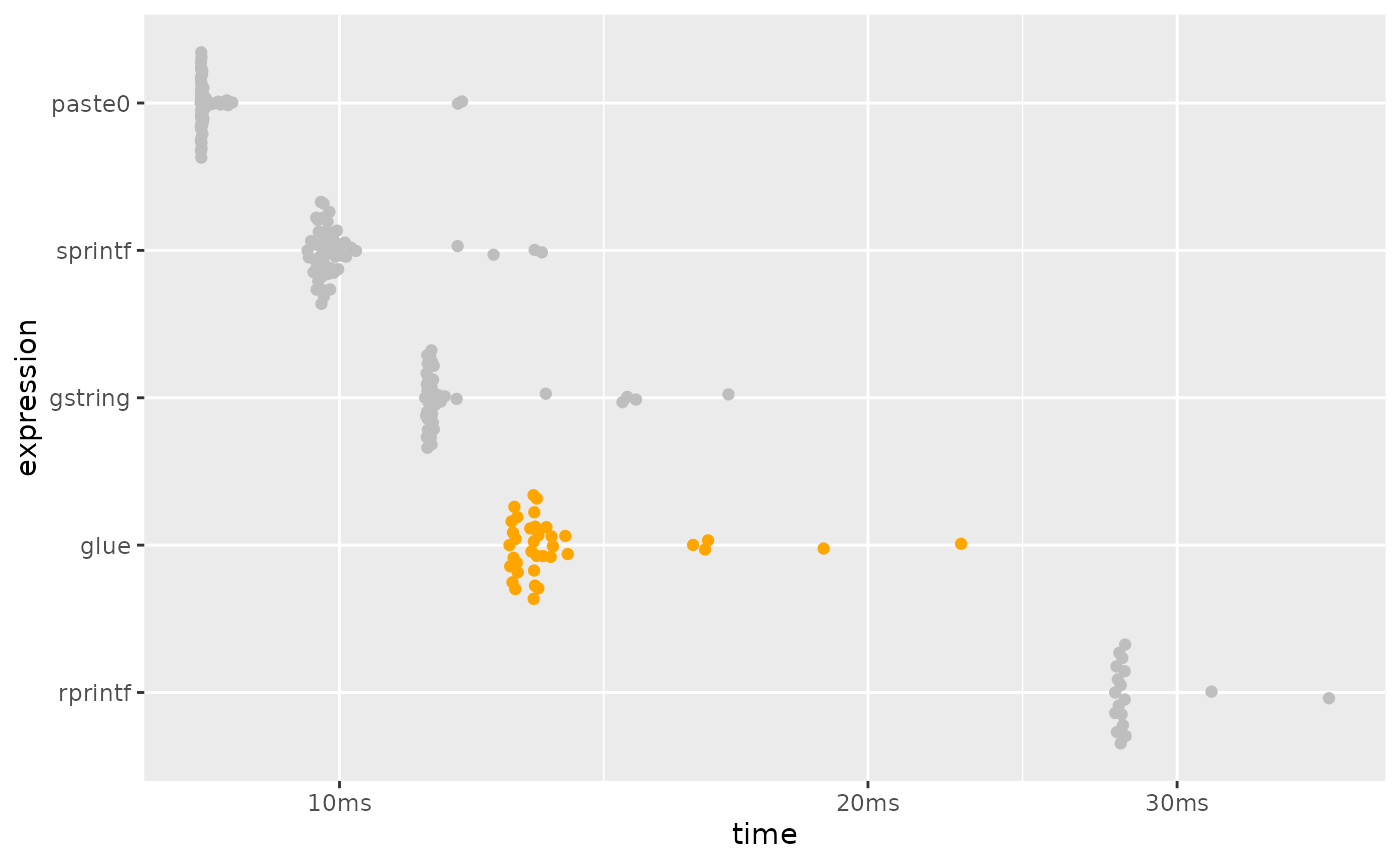
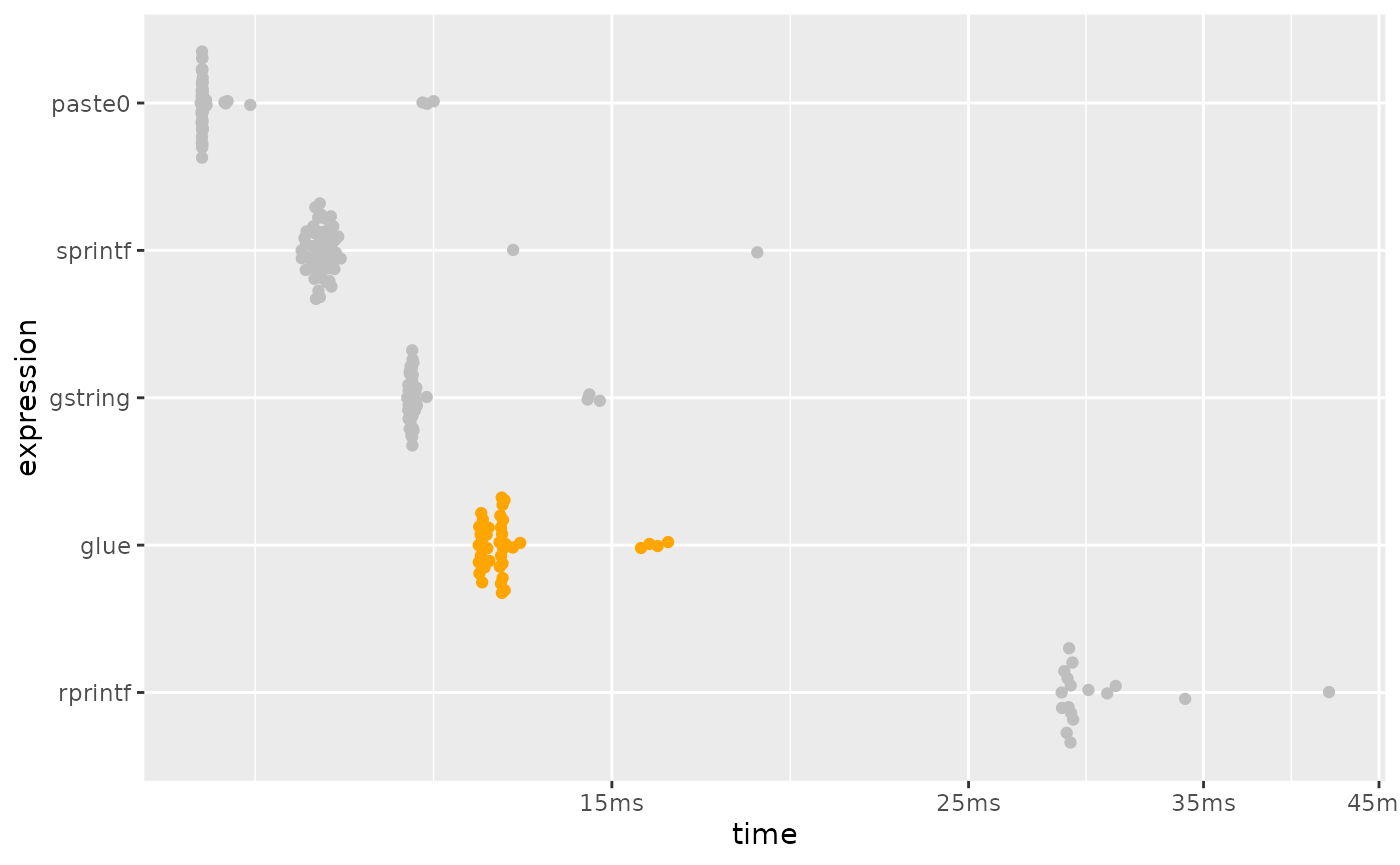
Deploying to gh-pages from @ tidyverse/glue@56913765a27b94175ad1ac0e8b9608e8c6272bc8 🚀

diff --git a/articles/speed.html b/articles/speed.html
@@ -165,11 +165,11 @@ this benchmark, but is now formally marked as “superseded”, in favor of
 <span><span class="co">#&gt; <span style="color: #949494;"># A tibble: 5 × 6</span></span></span>
 <span><span class="co">#&gt;   expression      min   median `itr/sec` mem_alloc `gc/sec`</span></span>
 <span><span class="co">#&gt;   <span style="color: #949494; font-style: italic;">&lt;bch:expr&gt;</span> <span style="color: #949494; font-style: italic;">&lt;bch:tm&gt;</span> <span style="color: #949494; font-style: italic;">&lt;bch:tm&gt;</span>     <span style="color: #949494; font-style: italic;">&lt;dbl&gt;</span> <span style="color: #949494; font-style: italic;">&lt;bch:byt&gt;</span>    <span style="color: #949494; font-style: italic;">&lt;dbl&gt;</span></span></span>
-<span><span class="co">#&gt; <span style="color: #BCBCBC;">1</span> sprintf    740.98ns 801.99ns  1<span style="text-decoration: underline;">169</span>363.        0B      0  </span></span>
-<span><span class="co">#&gt; <span style="color: #BCBCBC;">2</span> paste0       1.51µs   1.64µs   <span style="text-decoration: underline;">587</span>778.        0B      0  </span></span>
-<span><span class="co">#&gt; <span style="color: #BCBCBC;">3</span> glue        99.06µs  106.2µs     <span style="text-decoration: underline;">9</span>023.   139.5KB     29.9</span></span>
-<span><span class="co">#&gt; <span style="color: #BCBCBC;">4</span> gstring    220.92µs 232.03µs     <span style="text-decoration: underline;">4</span>215.    2.45MB     21.4</span></span>
-<span><span class="co">#&gt; <span style="color: #BCBCBC;">5</span> rprintf    276.88µs 286.02µs     <span style="text-decoration: underline;">3</span>349.   78.14KB     10.4</span></span>
+<span><span class="co">#&gt; <span style="color: #BCBCBC;">1</span> sprintf     750.9ns 861.01ns  1<span style="text-decoration: underline;">113</span>764.        0B      0  </span></span>
+<span><span class="co">#&gt; <span style="color: #BCBCBC;">2</span> paste0        1.5µs   1.63µs   <span style="text-decoration: underline;">581</span>551.        0B     58.2</span></span>
+<span><span class="co">#&gt; <span style="color: #BCBCBC;">3</span> glue         97.7µs 103.77µs     <span style="text-decoration: underline;">9</span>419.   139.5KB     32.0</span></span>
+<span><span class="co">#&gt; <span style="color: #BCBCBC;">4</span> gstring     227.1µs 237.15µs     <span style="text-decoration: underline;">4</span>122.    2.45MB     19.1</span></span>
+<span><span class="co">#&gt; <span style="color: #BCBCBC;">5</span> rprintf     278.4µs  285.8µs     <span style="text-decoration: underline;">3</span>442.   78.14KB     10.3</span></span>
 <span></span>
 <span><span class="co"># plotting function defined in a hidden chunk</span></span>
 <span><span class="fu">plot_comparison</span><span class="op">(</span><span class="va">simple</span><span class="op">)</span></span></code></pre></div>
@@ -212,11 +212,11 @@ performance is much closer to that of <code><a href="https://rdrr.io/r/base/past
 <span><span class="co">#&gt; <span style="color: #949494;"># A tibble: 5 × 6</span></span></span>
 <span><span class="co">#&gt;   expression      min   median `itr/sec` mem_alloc `gc/sec`</span></span>
 <span><span class="co">#&gt;   <span style="color: #949494; font-style: italic;">&lt;bch:expr&gt;</span> <span style="color: #949494; font-style: italic;">&lt;bch:tm&gt;</span> <span style="color: #949494; font-style: italic;">&lt;bch:tm&gt;</span>     <span style="color: #949494; font-style: italic;">&lt;dbl&gt;</span> <span style="color: #949494; font-style: italic;">&lt;bch:byt&gt;</span>    <span style="color: #949494; font-style: italic;">&lt;dbl&gt;</span></span></span>
-<span><span class="co">#&gt; <span style="color: #BCBCBC;">1</span> paste0       8.34ms   8.35ms     119.    781.3KB     4.18</span></span>
-<span><span class="co">#&gt; <span style="color: #BCBCBC;">2</span> sprintf      9.59ms    9.8ms     101.    781.3KB     4.20</span></span>
-<span><span class="co">#&gt; <span style="color: #BCBCBC;">3</span> gstring     11.19ms  11.27ms      87.2    1.53MB     6.54</span></span>
-<span><span class="co">#&gt; <span style="color: #BCBCBC;">4</span> glue         12.5ms   12.9ms      76.2    2.29MB     6.72</span></span>
-<span><span class="co">#&gt; <span style="color: #BCBCBC;">5</span> rprintf     27.66ms  27.86ms      35.9    3.05MB     4.49</span></span>
+<span><span class="co">#&gt; <span style="color: #BCBCBC;">1</span> paste0       8.32ms   8.34ms     119.    781.3KB     6.40</span></span>
+<span><span class="co">#&gt; <span style="color: #BCBCBC;">2</span> sprintf      9.62ms   9.88ms     101.    781.3KB     4.21</span></span>
+<span><span class="co">#&gt; <span style="color: #BCBCBC;">3</span> gstring     11.19ms  11.27ms      88.7    1.53MB     6.49</span></span>
+<span><span class="co">#&gt; <span style="color: #BCBCBC;">4</span> glue        12.39ms  12.78ms      78.9    2.29MB     9.02</span></span>
+<span><span class="co">#&gt; <span style="color: #BCBCBC;">5</span> rprintf     28.56ms  28.93ms      33.4    3.05MB     2.09</span></span>
 <span></span>
 <span><span class="co"># plotting function defined in a hidden chunk</span></span>
 <span><span class="fu">plot_comparison</span><span class="op">(</span><span class="va">vectorized</span><span class="op">)</span></span></code></pre></div>
